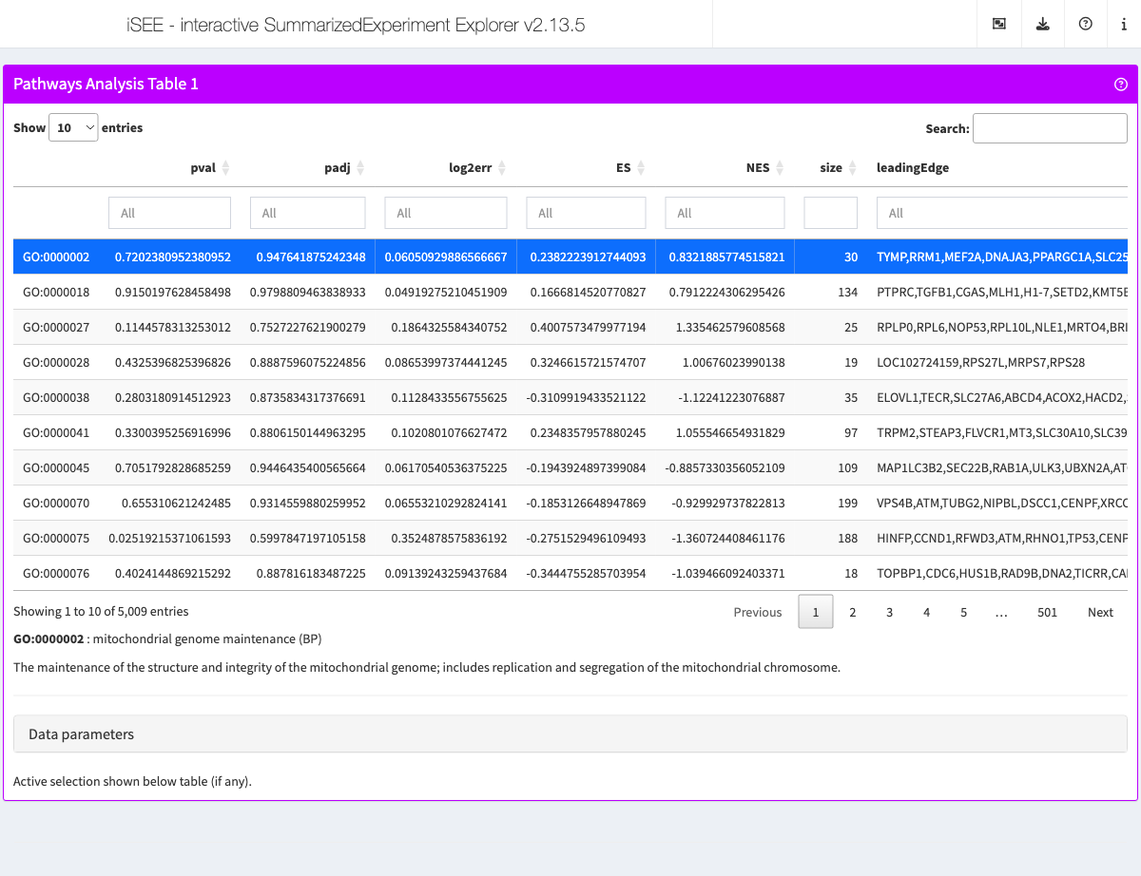
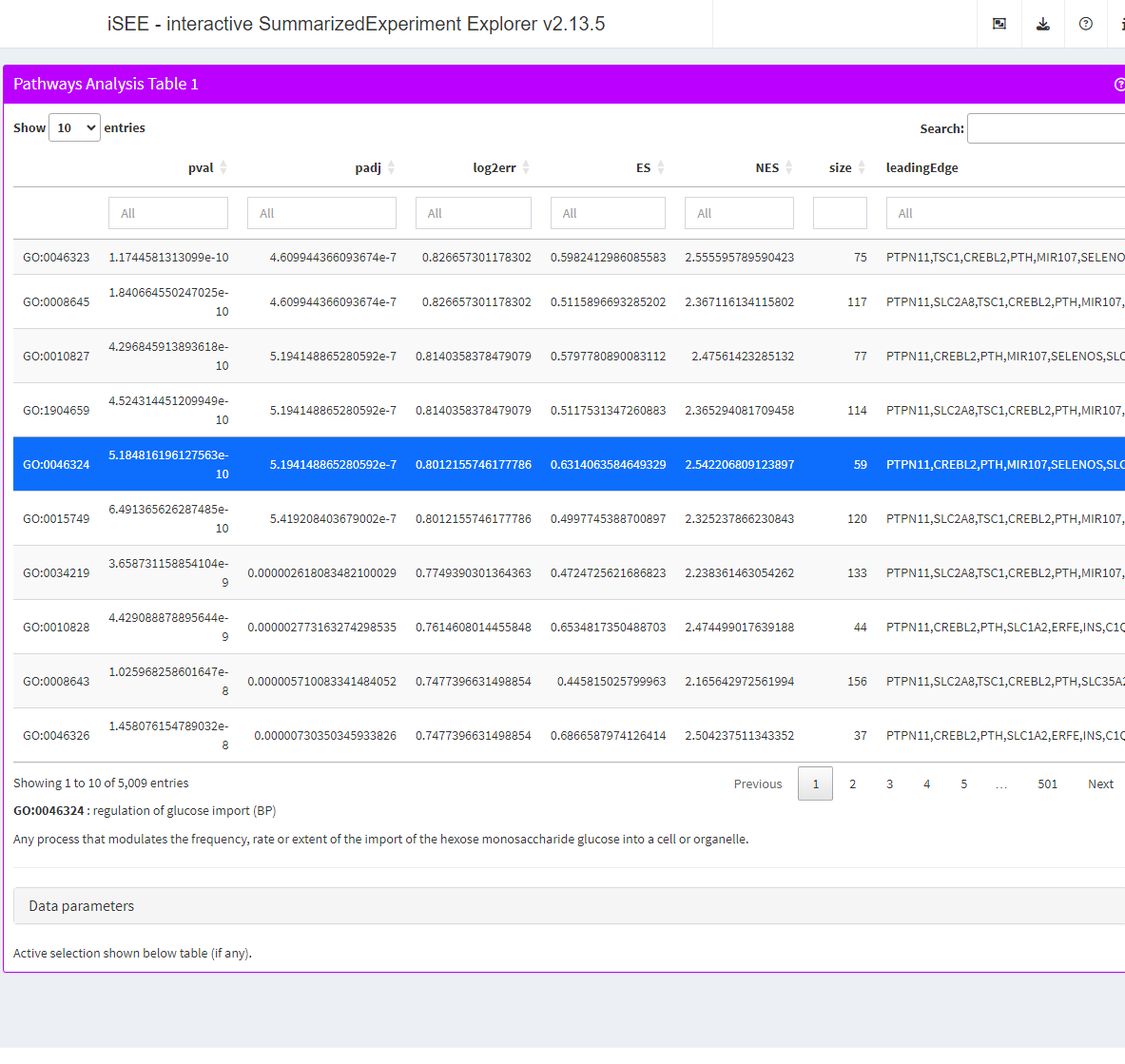
Built site for iSEEpathways: 0.99.0@99db7e4

diff --git a/reference/iSEEfgseaResults-class.html b/reference/iSEEfgseaResults-class.html
@@ -144,20 +144,20 @@ Refer to the documentation for each method for more details on the remaining arg
 <span class="r-in"><span>                  minSize  <span class="op">=</span> <span class="fl">15</span>,</span></span>
 <span class="r-in"><span>                  maxSize  <span class="op">=</span> <span class="fl">500</span><span class="op">)</span></span></span>
 <span class="r-in"><span><span class="fu"><a href="https://rdrr.io/r/utils/head.html" class="external-link">head</a></span><span class="op">(</span><span class="va">fgseaRes</span><span class="op">[</span><span class="fu"><a href="https://rdrr.io/r/base/order.html" class="external-link">order</a></span><span class="op">(</span><span class="va">pval</span><span class="op">)</span>, <span class="op">]</span><span class="op">)</span></span></span>
-<span class="r-out co"><span class="r-pr">#&gt;</span>       pathway         pval     padj   log2err         ES       NES size</span>
-<span class="r-out co"><span class="r-pr">#&gt;</span> 1: GO:0072583 0.0001676150 0.871716 0.5188481  0.5045286  1.977645   46</span>
-<span class="r-out co"><span class="r-pr">#&gt;</span> 2: GO:0035307 0.0003622146 0.871716 0.4984931  0.4864190  1.906659   46</span>
-<span class="r-out co"><span class="r-pr">#&gt;</span> 3: GO:2000369 0.0010836755 0.871716 0.4550599  0.6234918  1.932297   18</span>
-<span class="r-out co"><span class="r-pr">#&gt;</span> 4: GO:0060122 0.0011460103 0.871716 0.4550599  0.5312674  1.935137   33</span>
-<span class="r-out co"><span class="r-pr">#&gt;</span> 5: GO:1902369 0.0012538381 0.871716 0.4550599  0.3718872  1.631604   85</span>
-<span class="r-out co"><span class="r-pr">#&gt;</span> 6: GO:0051954 0.0016461891 0.871716 0.4550599 -0.4759904 -1.823632   43</span>
-<span class="r-out co"><span class="r-pr">#&gt;</span>                                      leadingEdge</span>
-<span class="r-out co"><span class="r-pr">#&gt;</span> 1:        AP2A2,DAB2,HIP1R,ITSN2,USH1G,SCYL2,...</span>
-<span class="r-out co"><span class="r-pr">#&gt;</span> 2:   PPP1R15B,PPP1R15A,SYMPK,PTPRC,PPIA,VRK3,...</span>
-<span class="r-out co"><span class="r-pr">#&gt;</span> 3:          DAB2,HIP1R,USH1G,SCYL2,DGKD,TNK2,...</span>
-<span class="r-out co"><span class="r-pr">#&gt;</span> 4:       CLRN2,ADGRV1,SCRIB,CDH23,CECR2,WHRN,...</span>
-<span class="r-out co"><span class="r-pr">#&gt;</span> 5: METTL16,APOBEC1,RBM46,SYNCRIP,YBX3,ELAVL4,...</span>
-<span class="r-out co"><span class="r-pr">#&gt;</span> 6:       TACR2,SLC12A2,KMO,GDNF,ADORA2A,ABAT,...</span>
+<span class="r-out co"><span class="r-pr">#&gt;</span>       pathway         pval      padj   log2err         ES       NES size</span>
+<span class="r-out co"><span class="r-pr">#&gt;</span> 1: GO:1902410 6.599405e-05 0.2984150 0.5384341  0.6312563  2.122435   24</span>
+<span class="r-out co"><span class="r-pr">#&gt;</span> 2: GO:0001578 1.143791e-04 0.2984150 0.5384341  0.3803529  1.784655  123</span>
+<span class="r-out co"><span class="r-pr">#&gt;</span> 3: GO:0031468 4.388735e-04 0.4346184 0.4984931  0.5877114  2.001651   25</span>
+<span class="r-out co"><span class="r-pr">#&gt;</span> 4: GO:1903170 4.911744e-04 0.4346184 0.4772708 -0.4537323 -1.853909   54</span>
+<span class="r-out co"><span class="r-pr">#&gt;</span> 5: GO:0061952 5.584567e-04 0.4346184 0.4772708  0.6548873  2.034907   18</span>
+<span class="r-out co"><span class="r-pr">#&gt;</span> 6: GO:0030322 5.858400e-04 0.4346184 0.4772708 -0.6523298 -1.970811   17</span>
+<span class="r-out co"><span class="r-pr">#&gt;</span>                                     leadingEdge</span>
+<span class="r-out co"><span class="r-pr">#&gt;</span> 1:    CEP55,NUP62,CHMP2A,ARF1,CHMP4C,CHMP1A,...</span>
+<span class="r-out co"><span class="r-pr">#&gt;</span> 2: CEP131,DNAH8,CFAP69,NCKAP5,CCDC63,CC2D2A,...</span>
+<span class="r-out co"><span class="r-pr">#&gt;</span> 3:   SIRT2,CHMP2A,REEP4,CHMP4C,CHMP1A,BANF1,...</span>
+<span class="r-out co"><span class="r-pr">#&gt;</span> 4:       MIR208A,SLN,UBQLN1,EPO,NTSR1,OPRL1,...</span>
+<span class="r-out co"><span class="r-pr">#&gt;</span> 5:   CEP55,CHMP2A,CHMP4C,CHMP1A,VPS4B,CHMP6,...</span>
+<span class="r-out co"><span class="r-pr">#&gt;</span> 6:   KCNK13,KCNK3,KCNK18,KCNK9,KCNK1,KCNK15,...</span>
 <span class="r-in"><span></span></span>
 <span class="r-in"><span><span class="co">##</span></span></span>
 <span class="r-in"><span><span class="co"># Simulate a SummarizedExperiment object</span></span></span>
@@ -193,59 +193,59 @@ Refer to the documentation for each method for more details on the remaining arg
 <span class="r-out co"><span class="r-pr">#&gt;</span> iSEEfgseaResults with 5218 rows and 7 columns</span>
 <span class="r-out co"><span class="r-pr">#&gt;</span>                 pval      padj   log2err        ES       NES      size</span>
 <span class="r-out co"><span class="r-pr">#&gt;</span>            &lt;numeric&gt; &lt;numeric&gt; &lt;numeric&gt; &lt;numeric&gt; &lt;numeric&gt; &lt;integer&gt;</span>
-<span class="r-out co"><span class="r-pr">#&gt;</span> GO:0000002  0.472897  0.972715 0.0785029 -0.279001 -1.001422        30</span>
-<span class="r-out co"><span class="r-pr">#&gt;</span> GO:0000018  0.508547  0.978732 0.0817516  0.208684  0.989219       134</span>
-<span class="r-out co"><span class="r-pr">#&gt;</span> GO:0000027  0.230483  0.946059 0.1215433 -0.343579 -1.170825        25</span>
-<span class="r-out co"><span class="r-pr">#&gt;</span> GO:0000028  0.177686  0.932495 0.1492075  0.391760  1.238733        19</span>
-<span class="r-out co"><span class="r-pr">#&gt;</span> GO:0000038  0.841418  1.000000 0.0503964 -0.212254 -0.781997        35</span>
+<span class="r-out co"><span class="r-pr">#&gt;</span> GO:0000002  0.687898  1.000000 0.0659816  0.240615  0.863464        30</span>
+<span class="r-out co"><span class="r-pr">#&gt;</span> GO:0000018  0.668737  1.000000 0.0661326  0.192601  0.917302       134</span>
+<span class="r-out co"><span class="r-pr">#&gt;</span> GO:0000027  0.140449  0.881208 0.1608014 -0.370214 -1.272534        25</span>
+<span class="r-out co"><span class="r-pr">#&gt;</span> GO:0000028  0.077821  0.834332 0.2249661 -0.440668 -1.393772        19</span>
+<span class="r-out co"><span class="r-pr">#&gt;</span> GO:0000038  0.122105  0.880116 0.1847065  0.349656  1.300379        35</span>
 <span class="r-out co"><span class="r-pr">#&gt;</span> ...              ...       ...       ...       ...       ...       ...</span>
-<span class="r-out co"><span class="r-pr">#&gt;</span> GO:2001257  0.250474  0.955391 0.1172497 -0.228621 -1.093868       154</span>
-<span class="r-out co"><span class="r-pr">#&gt;</span> GO:2001258  0.567518  0.980902 0.0679923 -0.228728 -0.944261        59</span>
-<span class="r-out co"><span class="r-pr">#&gt;</span> GO:2001259  0.788104  1.000000 0.0532386 -0.203442 -0.848034        66</span>
-<span class="r-out co"><span class="r-pr">#&gt;</span> GO:2001267  0.963532  1.000000 0.0454968 -0.200873 -0.605458        17</span>
-<span class="r-out co"><span class="r-pr">#&gt;</span> GO:2001279  0.265226  0.959147 0.1157344 -0.400062 -1.156893        15</span>
-<span class="r-out co"><span class="r-pr">#&gt;</span>                        leadingEdge</span>
-<span class="r-out co"><span class="r-pr">#&gt;</span>                             &lt;list&gt;</span>
-<span class="r-out co"><span class="r-pr">#&gt;</span> GO:0000002   MEF2A,DNA2,METTL4,...</span>
-<span class="r-out co"><span class="r-pr">#&gt;</span> GO:0000018    RPA2,UBQLN4,APLF,...</span>
-<span class="r-out co"><span class="r-pr">#&gt;</span> GO:0000027 FASTKD2,TRAF7,MRTO4,...</span>
-<span class="r-out co"><span class="r-pr">#&gt;</span> GO:0000028  RPS28,RRP7BP,RPS14,...</span>
-<span class="r-out co"><span class="r-pr">#&gt;</span> GO:0000038 HACD2,ABCD2,SLC27A2,...</span>
-<span class="r-out co"><span class="r-pr">#&gt;</span> ...                            ...</span>
-<span class="r-out co"><span class="r-pr">#&gt;</span> GO:2001257   KCNE1,STIM2,FGF13,...</span>
-<span class="r-out co"><span class="r-pr">#&gt;</span> GO:2001258     KCNE1,KCNE4,SRI,...</span>
-<span class="r-out co"><span class="r-pr">#&gt;</span> GO:2001259   KCNE1,STIM2,KCNC2,...</span>
-<span class="r-out co"><span class="r-pr">#&gt;</span> GO:2001267       IL9,NLE1,MMP9,...</span>
-<span class="r-out co"><span class="r-pr">#&gt;</span> GO:2001279    CD74,PTGS2,ABCD2,...</span>
+<span class="r-out co"><span class="r-pr">#&gt;</span> GO:2001257 0.0968992  0.860524 0.1999152 -0.256276 -1.237736       154</span>
+<span class="r-out co"><span class="r-pr">#&gt;</span> GO:2001258 0.2197393  0.941755 0.1250334 -0.275806 -1.145440        59</span>
+<span class="r-out co"><span class="r-pr">#&gt;</span> GO:2001259 0.0661626  0.832186 0.2413400 -0.310033 -1.301565        66</span>
+<span class="r-out co"><span class="r-pr">#&gt;</span> GO:2001267 0.6294118  1.000000 0.0664364 -0.295362 -0.892345        17</span>
+<span class="r-out co"><span class="r-pr">#&gt;</span> GO:2001279 0.8920000  1.000000 0.0509083 -0.242359 -0.703232        15</span>
+<span class="r-out co"><span class="r-pr">#&gt;</span>                          leadingEdge</span>
+<span class="r-out co"><span class="r-pr">#&gt;</span>                               &lt;list&gt;</span>
+<span class="r-out co"><span class="r-pr">#&gt;</span> GO:0000002   PRIMPOL,ENDOG,LONP1,...</span>
+<span class="r-out co"><span class="r-pr">#&gt;</span> GO:0000018     ACTL6A,EP400,EPC1,...</span>
+<span class="r-out co"><span class="r-pr">#&gt;</span> GO:0000027      MRM2,BOP1,RPL23A,...</span>
+<span class="r-out co"><span class="r-pr">#&gt;</span> GO:0000028   RRP7BP,RPS27L,RRP7A,...</span>
+<span class="r-out co"><span class="r-pr">#&gt;</span> GO:0000038 ELOVL5,CYP4F12,ELOVL3,...</span>
+<span class="r-out co"><span class="r-pr">#&gt;</span> ...                              ...</span>
+<span class="r-out co"><span class="r-pr">#&gt;</span> GO:2001257      MIR208A,DMD,EDN1,...</span>
+<span class="r-out co"><span class="r-pr">#&gt;</span> GO:2001258    MIR208A,UBQLN1,EPO,...</span>
+<span class="r-out co"><span class="r-pr">#&gt;</span> GO:2001259     EDN1,NTSR1,PPP3CA,...</span>
+<span class="r-out co"><span class="r-pr">#&gt;</span> GO:2001267    HTRA2,LGALS9,TFAP4,...</span>
+<span class="r-out co"><span class="r-pr">#&gt;</span> GO:2001279    PTGS2,PLA2G3,FABP5,...</span>
 <span class="r-out co"><span class="r-pr">#&gt;</span> </span>
 <span class="r-in"><span><span class="fu"><a href="pathwaysResults.html">pathwaysResults</a></span><span class="op">(</span><span class="va">se</span>, <span class="st">"fgsea"</span><span class="op">)</span></span></span>
 <span class="r-out co"><span class="r-pr">#&gt;</span> iSEEfgseaResults with 5218 rows and 7 columns</span>
 <span class="r-out co"><span class="r-pr">#&gt;</span>                 pval      padj   log2err        ES       NES      size</span>
 <span class="r-out co"><span class="r-pr">#&gt;</span>            &lt;numeric&gt; &lt;numeric&gt; &lt;numeric&gt; &lt;numeric&gt; &lt;numeric&gt; &lt;integer&gt;</span>
-<span class="r-out co"><span class="r-pr">#&gt;</span> GO:0000002  0.472897  0.972715 0.0785029 -0.279001 -1.001422        30</span>
-<span class="r-out co"><span class="r-pr">#&gt;</span> GO:0000018  0.508547  0.978732 0.0817516  0.208684  0.989219       134</span>
-<span class="r-out co"><span class="r-pr">#&gt;</span> GO:0000027  0.230483  0.946059 0.1215433 -0.343579 -1.170825        25</span>
-<span class="r-out co"><span class="r-pr">#&gt;</span> GO:0000028  0.177686  0.932495 0.1492075  0.391760  1.238733        19</span>
-<span class="r-out co"><span class="r-pr">#&gt;</span> GO:0000038  0.841418  1.000000 0.0503964 -0.212254 -0.781997        35</span>
+<span class="r-out co"><span class="r-pr">#&gt;</span> GO:0000002  0.687898  1.000000 0.0659816  0.240615  0.863464        30</span>
+<span class="r-out co"><span class="r-pr">#&gt;</span> GO:0000018  0.668737  1.000000 0.0661326  0.192601  0.917302       134</span>
+<span class="r-out co"><span class="r-pr">#&gt;</span> GO:0000027  0.140449  0.881208 0.1608014 -0.370214 -1.272534        25</span>
+<span class="r-out co"><span class="r-pr">#&gt;</span> GO:0000028  0.077821  0.834332 0.2249661 -0.440668 -1.393772        19</span>
+<span class="r-out co"><span class="r-pr">#&gt;</span> GO:0000038  0.122105  0.880116 0.1847065  0.349656  1.300379        35</span>
 <span class="r-out co"><span class="r-pr">#&gt;</span> ...              ...       ...       ...       ...       ...       ...</span>
-<span class="r-out co"><span class="r-pr">#&gt;</span> GO:2001257  0.250474  0.955391 0.1172497 -0.228621 -1.093868       154</span>
-<span class="r-out co"><span class="r-pr">#&gt;</span> GO:2001258  0.567518  0.980902 0.0679923 -0.228728 -0.944261        59</span>
-<span class="r-out co"><span class="r-pr">#&gt;</span> GO:2001259  0.788104  1.000000 0.0532386 -0.203442 -0.848034        66</span>
-<span class="r-out co"><span class="r-pr">#&gt;</span> GO:2001267  0.963532  1.000000 0.0454968 -0.200873 -0.605458        17</span>
-<span class="r-out co"><span class="r-pr">#&gt;</span> GO:2001279  0.265226  0.959147 0.1157344 -0.400062 -1.156893        15</span>
-<span class="r-out co"><span class="r-pr">#&gt;</span>                        leadingEdge</span>
-<span class="r-out co"><span class="r-pr">#&gt;</span>                             &lt;list&gt;</span>
-<span class="r-out co"><span class="r-pr">#&gt;</span> GO:0000002   MEF2A,DNA2,METTL4,...</span>
-<span class="r-out co"><span class="r-pr">#&gt;</span> GO:0000018    RPA2,UBQLN4,APLF,...</span>
-<span class="r-out co"><span class="r-pr">#&gt;</span> GO:0000027 FASTKD2,TRAF7,MRTO4,...</span>
-<span class="r-out co"><span class="r-pr">#&gt;</span> GO:0000028  RPS28,RRP7BP,RPS14,...</span>
-<span class="r-out co"><span class="r-pr">#&gt;</span> GO:0000038 HACD2,ABCD2,SLC27A2,...</span>
-<span class="r-out co"><span class="r-pr">#&gt;</span> ...                            ...</span>
-<span class="r-out co"><span class="r-pr">#&gt;</span> GO:2001257   KCNE1,STIM2,FGF13,...</span>
-<span class="r-out co"><span class="r-pr">#&gt;</span> GO:2001258     KCNE1,KCNE4,SRI,...</span>
-<span class="r-out co"><span class="r-pr">#&gt;</span> GO:2001259   KCNE1,STIM2,KCNC2,...</span>
-<span class="r-out co"><span class="r-pr">#&gt;</span> GO:2001267       IL9,NLE1,MMP9,...</span>
-<span class="r-out co"><span class="r-pr">#&gt;</span> GO:2001279    CD74,PTGS2,ABCD2,...</span>
+<span class="r-out co"><span class="r-pr">#&gt;</span> GO:2001257 0.0968992  0.860524 0.1999152 -0.256276 -1.237736       154</span>
+<span class="r-out co"><span class="r-pr">#&gt;</span> GO:2001258 0.2197393  0.941755 0.1250334 -0.275806 -1.145440        59</span>
+<span class="r-out co"><span class="r-pr">#&gt;</span> GO:2001259 0.0661626  0.832186 0.2413400 -0.310033 -1.301565        66</span>
+<span class="r-out co"><span class="r-pr">#&gt;</span> GO:2001267 0.6294118  1.000000 0.0664364 -0.295362 -0.892345        17</span>
+<span class="r-out co"><span class="r-pr">#&gt;</span> GO:2001279 0.8920000  1.000000 0.0509083 -0.242359 -0.703232        15</span>
+<span class="r-out co"><span class="r-pr">#&gt;</span>                          leadingEdge</span>
+<span class="r-out co"><span class="r-pr">#&gt;</span>                               &lt;list&gt;</span>
+<span class="r-out co"><span class="r-pr">#&gt;</span> GO:0000002   PRIMPOL,ENDOG,LONP1,...</span>
+<span class="r-out co"><span class="r-pr">#&gt;</span> GO:0000018     ACTL6A,EP400,EPC1,...</span>
+<span class="r-out co"><span class="r-pr">#&gt;</span> GO:0000027      MRM2,BOP1,RPL23A,...</span>
+<span class="r-out co"><span class="r-pr">#&gt;</span> GO:0000028   RRP7BP,RPS27L,RRP7A,...</span>
+<span class="r-out co"><span class="r-pr">#&gt;</span> GO:0000038 ELOVL5,CYP4F12,ELOVL3,...</span>
+<span class="r-out co"><span class="r-pr">#&gt;</span> ...                              ...</span>
+<span class="r-out co"><span class="r-pr">#&gt;</span> GO:2001257      MIR208A,DMD,EDN1,...</span>
+<span class="r-out co"><span class="r-pr">#&gt;</span> GO:2001258    MIR208A,UBQLN1,EPO,...</span>
+<span class="r-out co"><span class="r-pr">#&gt;</span> GO:2001259     EDN1,NTSR1,PPP3CA,...</span>
+<span class="r-out co"><span class="r-pr">#&gt;</span> GO:2001267    HTRA2,LGALS9,TFAP4,...</span>
+<span class="r-out co"><span class="r-pr">#&gt;</span> GO:2001279    PTGS2,PLA2G3,FABP5,...</span>
 <span class="r-in"><span></span></span>
 <span class="r-in"><span><span class="fu"><a href="pathway-generics.html">pathwayType</a></span><span class="op">(</span><span class="fu"><a href="pathwaysResults.html">pathwaysResults</a></span><span class="op">(</span><span class="va">se</span>, <span class="st">"fgsea"</span><span class="op">)</span><span class="op">)</span></span></span>
 <span class="r-out co"><span class="r-pr">#&gt;</span> [1] "GO"</span>
@@ -254,7 +254,7 @@ Refer to the documentation for each method for more details on the remaining arg
 <span class="r-out co"><span class="r-pr">#&gt;</span>         30       1506         12          2        134          7 </span>
 <span class="r-in"><span><span class="fu"><a href="https://rdrr.io/r/utils/head.html" class="external-link">head</a></span><span class="op">(</span><span class="fu"><a href="pathway-generics.html">featuresStats</a></span><span class="op">(</span><span class="fu"><a href="pathwaysResults.html">pathwaysResults</a></span><span class="op">(</span><span class="va">se</span>, <span class="st">"fgsea"</span><span class="op">)</span><span class="op">)</span><span class="op">)</span></span></span>
 <span class="r-out co"><span class="r-pr">#&gt;</span>       PARP1     SLC25A4        DNA2        TYMP       ENDOG        LIG3 </span>
-<span class="r-out co"><span class="r-pr">#&gt;</span>  1.10624729 -0.29232476 -1.98848862 -0.90770816 -0.79173908  0.07942219 </span>
+<span class="r-out co"><span class="r-pr">#&gt;</span> -1.05707239  0.70615619 -0.07111189 -0.83350069  1.84873957 -1.29495865 </span>
 </code></pre></div>
     </div>
   </div>

diff --git a/articles/gene-ontology.html b/articles/gene-ontology.html
@@ -259,9 +259,9 @@ Cheng, Chang, and Iannone, 2023)</li>
 <span><span class="kw"><a href="https://rdrr.io/r/base/library.html" class="external-link">library</a></span><span class="op">(</span><span class="st"><a href="https://yihui.org/knitr/" class="external-link">"knitr"</a></span><span class="op">)</span></span>
 <span><span class="fu"><a href="https://rdrr.io/pkg/knitr/man/knit.html" class="external-link">knit</a></span><span class="op">(</span><span class="st">"gene-ontology.Rmd"</span>, tangle <span class="op">=</span> <span class="cn">TRUE</span><span class="op">)</span></span></code></pre></div>
 <p>Date the vignette was generated.</p>
-<pre><code><span><span class="co">#&gt; [1] "2023-09-01 16:16:35 UTC"</span></span></code></pre>
+<pre><code><span><span class="co">#&gt; [1] "2023-09-01 18:29:46 UTC"</span></span></code></pre>
 <p>Wallclock time spent generating the vignette.</p>
-<pre><code><span><span class="co">#&gt; Time difference of 45.291 secs</span></span></code></pre>
+<pre><code><span><span class="co">#&gt; Time difference of 56.271 secs</span></span></code></pre>
 <p><code>R</code> session information.</p>
 <pre><code><span><span class="co">#&gt; <span style="color: #00BBBB; font-weight: bold;">─ Session info ───────────────────────────────────────────────────────────────────────────────────────────────────────</span></span></span>
 <span><span class="co">#&gt;  <span style="color: #555555; font-style: italic;">setting </span> <span style="color: #555555; font-style: italic;">value</span></span></span>
@@ -393,7 +393,7 @@ Cheng, Chang, and Iannone, 2023)</li>
 <span><span class="co">#&gt;  shinyjs                2.1.0     <span style="color: #555555;">2021-12-23</span> <span style="color: #555555;">[1]</span> <span style="color: #555555;">CRAN (R 4.3.1)</span></span></span>
 <span><span class="co">#&gt;  shinyWidgets           0.8.0     <span style="color: #555555;">2023-08-30</span> <span style="color: #555555;">[1]</span> <span style="color: #555555;">CRAN (R 4.3.1)</span></span></span>
 <span><span class="co">#&gt;  SingleCellExperiment * 1.23.0    <span style="color: #555555;">2023-04-25</span> <span style="color: #555555;">[1]</span> <span style="color: #555555;">Bioconductor</span></span></span>
-<span><span class="co">#&gt;  SparseArray            1.1.11    <span style="color: #555555;">2023-07-25</span> <span style="color: #555555;">[1]</span> <span style="color: #555555;">Bioconductor</span></span></span>
+<span><span class="co">#&gt;  SparseArray            1.1.12    <span style="color: #555555;">2023-08-31</span> <span style="color: #555555;">[1]</span> <span style="color: #555555;">Bioconductor</span></span></span>
 <span><span class="co">#&gt;  stringi                1.7.12    <span style="color: #555555;">2023-01-11</span> <span style="color: #555555;">[2]</span> <span style="color: #555555;">CRAN (R 4.3.1)</span></span></span>
 <span><span class="co">#&gt;  stringr                1.5.0     <span style="color: #555555;">2022-12-02</span> <span style="color: #555555;">[2]</span> <span style="color: #555555;">CRAN (R 4.3.1)</span></span></span>
 <span><span class="co">#&gt;  SummarizedExperiment * 1.31.1    <span style="color: #555555;">2023-05-01</span> <span style="color: #555555;">[1]</span> <span style="color: #555555;">Bioconductor</span></span></span>

diff --git a/articles/iSEEpathways.html b/articles/iSEEpathways.html
@@ -293,9 +293,9 @@ Cheng, Chang, and Iannone, 2023)</li>
 <span><span class="kw"><a href="https://rdrr.io/r/base/library.html" class="external-link">library</a></span><span class="op">(</span><span class="st"><a href="https://yihui.org/knitr/" class="external-link">"knitr"</a></span><span class="op">)</span></span>
 <span><span class="fu"><a href="https://rdrr.io/pkg/knitr/man/knit.html" class="external-link">knit</a></span><span class="op">(</span><span class="st">"iSEEpathways.Rmd"</span>, tangle <span class="op">=</span> <span class="cn">TRUE</span><span class="op">)</span></span></code></pre></div>
 <p>Date the vignette was generated.</p>
-<pre><code><span><span class="co">#&gt; [1] "2023-09-01 16:17:29 UTC"</span></span></code></pre>
+<pre><code><span><span class="co">#&gt; [1] "2023-09-01 18:30:55 UTC"</span></span></code></pre>
 <p>Wallclock time spent generating the vignette.</p>
-<pre><code><span><span class="co">#&gt; Time difference of 48.404 secs</span></span></code></pre>
+<pre><code><span><span class="co">#&gt; Time difference of 1.04 mins</span></span></code></pre>
 <p><code>R</code> session information.</p>
 <pre><code><span><span class="co">#&gt; <span style="color: #00BBBB; font-weight: bold;">─ Session info ───────────────────────────────────────────────────────────────────────────────────────────────────────</span></span></span>
 <span><span class="co">#&gt;  <span style="color: #555555; font-style: italic;">setting </span> <span style="color: #555555; font-style: italic;">value</span></span></span>
@@ -426,7 +426,7 @@ Cheng, Chang, and Iannone, 2023)</li>
 <span><span class="co">#&gt;  shinyjs                2.1.0     <span style="color: #555555;">2021-12-23</span> <span style="color: #555555;">[1]</span> <span style="color: #555555;">CRAN (R 4.3.1)</span></span></span>
 <span><span class="co">#&gt;  shinyWidgets           0.8.0     <span style="color: #555555;">2023-08-30</span> <span style="color: #555555;">[1]</span> <span style="color: #555555;">CRAN (R 4.3.1)</span></span></span>
 <span><span class="co">#&gt;  SingleCellExperiment * 1.23.0    <span style="color: #555555;">2023-04-25</span> <span style="color: #555555;">[1]</span> <span style="color: #555555;">Bioconductor</span></span></span>
-<span><span class="co">#&gt;  SparseArray            1.1.11    <span style="color: #555555;">2023-07-25</span> <span style="color: #555555;">[1]</span> <span style="color: #555555;">Bioconductor</span></span></span>
+<span><span class="co">#&gt;  SparseArray            1.1.12    <span style="color: #555555;">2023-08-31</span> <span style="color: #555555;">[1]</span> <span style="color: #555555;">Bioconductor</span></span></span>
 <span><span class="co">#&gt;  stringi                1.7.12    <span style="color: #555555;">2023-01-11</span> <span style="color: #555555;">[2]</span> <span style="color: #555555;">CRAN (R 4.3.1)</span></span></span>
 <span><span class="co">#&gt;  stringr                1.5.0     <span style="color: #555555;">2022-12-02</span> <span style="color: #555555;">[2]</span> <span style="color: #555555;">CRAN (R 4.3.1)</span></span></span>
 <span><span class="co">#&gt;  SummarizedExperiment * 1.31.1    <span style="color: #555555;">2023-05-01</span> <span style="color: #555555;">[1]</span> <span style="color: #555555;">Bioconductor</span></span></span>

diff --git a/articles/integration.html b/articles/integration.html
@@ -462,9 +462,9 @@ Cheng, Chang, and Iannone, 2023)</li>
 <span><span class="kw"><a href="https://rdrr.io/r/base/library.html" class="external-link">library</a></span><span class="op">(</span><span class="st"><a href="https://yihui.org/knitr/" class="external-link">"knitr"</a></span><span class="op">)</span></span>
 <span><span class="fu"><a href="https://rdrr.io/pkg/knitr/man/knit.html" class="external-link">knit</a></span><span class="op">(</span><span class="st">"integration.Rmd"</span>, tangle <span class="op">=</span> <span class="cn">TRUE</span><span class="op">)</span></span></code></pre></div>
 <p>Date the vignette was generated.</p>
-<pre><code><span><span class="co">#&gt; [1] "2023-09-01 16:18:57 UTC"</span></span></code></pre>
+<pre><code><span><span class="co">#&gt; [1] "2023-09-01 18:32:48 UTC"</span></span></code></pre>
 <p>Wallclock time spent generating the vignette.</p>
-<pre><code><span><span class="co">#&gt; Time difference of 1.406 mins</span></span></code></pre>
+<pre><code><span><span class="co">#&gt; Time difference of 1.809 mins</span></span></code></pre>
 <p><code>R</code> session information.</p>
 <pre><code><span><span class="co">#&gt; <span style="color: #00BBBB; font-weight: bold;">─ Session info ───────────────────────────────────────────────────────────────────────────────────────────────────────</span></span></span>
 <span><span class="co">#&gt;  <span style="color: #555555; font-style: italic;">setting </span> <span style="color: #555555; font-style: italic;">value</span></span></span>
@@ -614,7 +614,7 @@ Cheng, Chang, and Iannone, 2023)</li>
 <span><span class="co">#&gt;  shinyjs                2.1.0     <span style="color: #555555;">2021-12-23</span> <span style="color: #555555;">[1]</span> <span style="color: #555555;">CRAN (R 4.3.1)</span></span></span>
 <span><span class="co">#&gt;  shinyWidgets           0.8.0     <span style="color: #555555;">2023-08-30</span> <span style="color: #555555;">[1]</span> <span style="color: #555555;">CRAN (R 4.3.1)</span></span></span>
 <span><span class="co">#&gt;  SingleCellExperiment * 1.23.0    <span style="color: #555555;">2023-04-25</span> <span style="color: #555555;">[1]</span> <span style="color: #555555;">Bioconductor</span></span></span>
-<span><span class="co">#&gt;  SparseArray            1.1.11    <span style="color: #555555;">2023-07-25</span> <span style="color: #555555;">[1]</span> <span style="color: #555555;">Bioconductor</span></span></span>
+<span><span class="co">#&gt;  SparseArray            1.1.12    <span style="color: #555555;">2023-08-31</span> <span style="color: #555555;">[1]</span> <span style="color: #555555;">Bioconductor</span></span></span>
 <span><span class="co">#&gt;  sparseMatrixStats      1.13.4    <span style="color: #555555;">2023-08-11</span> <span style="color: #555555;">[1]</span> <span style="color: #555555;">Bioconductor</span></span></span>
 <span><span class="co">#&gt;  statmod                1.5.0     <span style="color: #555555;">2023-01-06</span> <span style="color: #555555;">[1]</span> <span style="color: #555555;">CRAN (R 4.3.1)</span></span></span>
 <span><span class="co">#&gt;  stringi                1.7.12    <span style="color: #555555;">2023-01-11</span> <span style="color: #555555;">[2]</span> <span style="color: #555555;">CRAN (R 4.3.1)</span></span></span>
